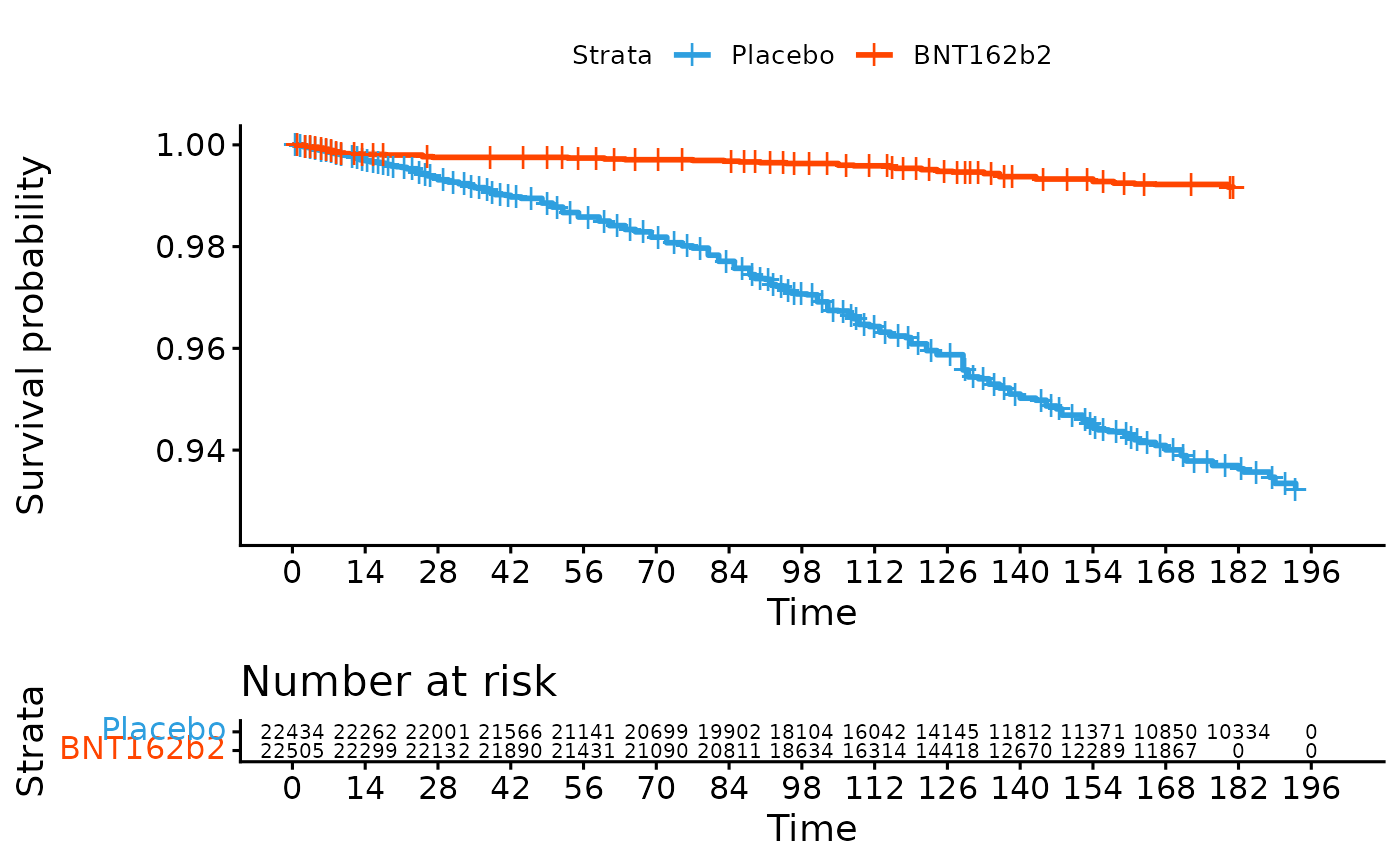
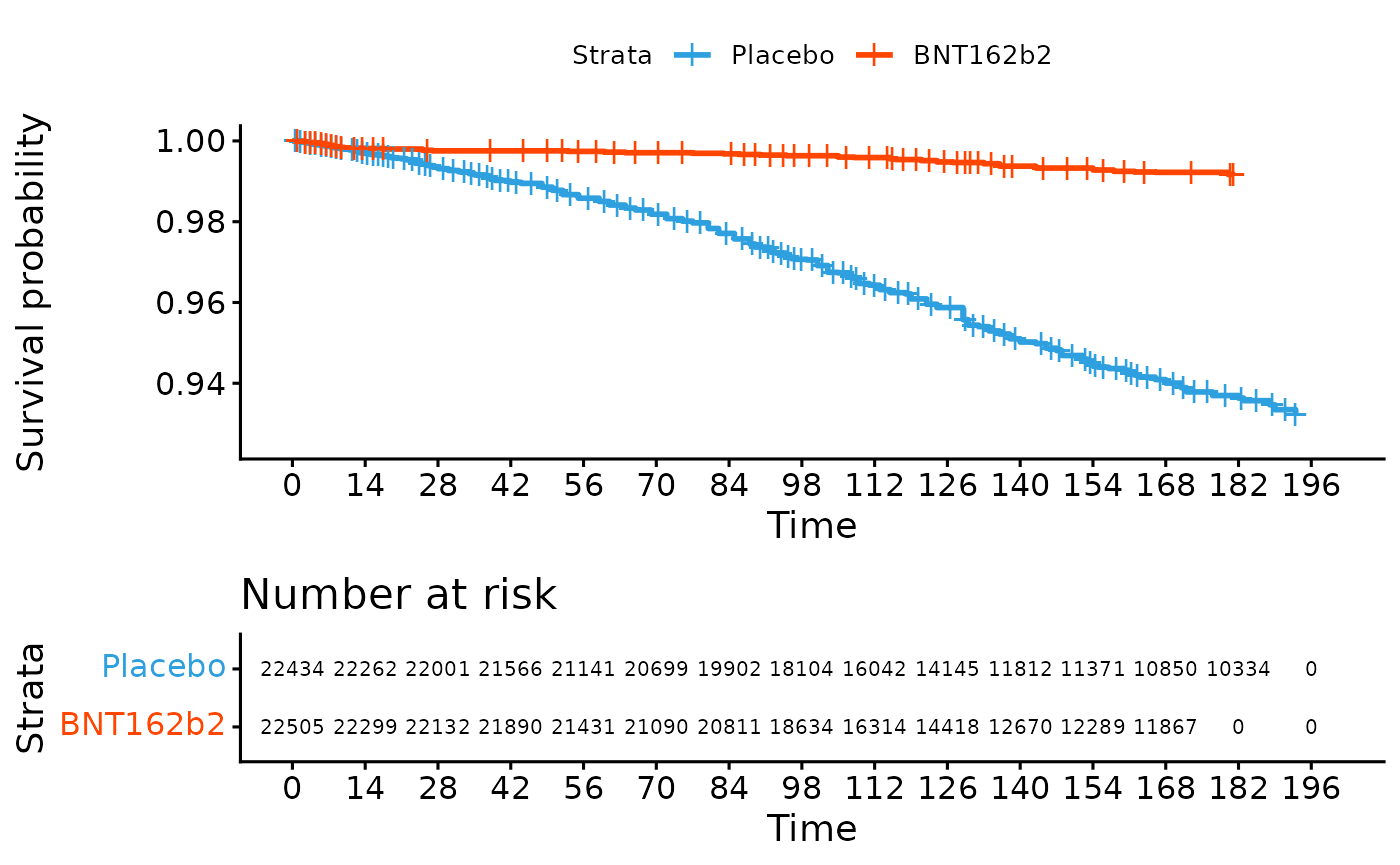
Deploying to gh-pages from @ swihart/mpw@42664717c1d3d849d6ddcf8ddc65f5772cdc1b2b 🚀

diff --git a/articles/wwps-fay-ipd.html b/articles/wwps-fay-ipd.html
@@ -158,7 +158,7 @@ with the core of our example.</p>
 <span><span class="co"># Visualize with survminer</span></span>
 <span><span class="fu"><a href="https://rdrr.io/pkg/survminer/man/ggsurvplot.html" class="external-link">ggsurvplot</a></span><span class="op">(</span><span class="va">fit</span>, data <span class="op">=</span> <span class="va">ipd_data</span>, risk.table <span class="op">=</span> <span class="cn">TRUE</span>, </span>
 <span>           ylim<span class="op">=</span><span class="fu"><a href="https://rdrr.io/r/base/c.html" class="external-link">c</a></span><span class="op">(</span><span class="fl">1</span>,<span class="fl">0.993</span><span class="op">)</span>, xlim<span class="op">=</span><span class="fu"><a href="https://rdrr.io/r/base/c.html" class="external-link">c</a></span><span class="op">(</span><span class="fl">0</span>,<span class="fl">28</span><span class="op">)</span>, break.time.by<span class="op">=</span><span class="fl">11</span>,</span>
-<span>           fontsize<span class="op">=</span><span class="fl">2.7</span>,tables.height <span class="op">=</span> <span class="fl">0.250</span>,</span>
+<span>           fontsize<span class="op">=</span><span class="fl">2.7</span>,tables.height <span class="op">=</span> <span class="fl">0.350</span>,</span>
 <span>           legend.labs <span class="op">=</span> <span class="fu"><a href="https://rdrr.io/r/base/c.html" class="external-link">c</a></span><span class="op">(</span><span class="st">"Placebo"</span>, <span class="st">"BNT162b2"</span><span class="op">)</span>,</span>
 <span>           palette <span class="op">=</span> <span class="fu"><a href="https://rdrr.io/r/base/c.html" class="external-link">c</a></span><span class="op">(</span><span class="st">"#2E9FDF"</span>,<span class="st">"#FF4500"</span> <span class="op">)</span><span class="op">)</span></span></code></pre></div>
 <p><img src="wwps-fay-ipd_files/figure-html/thomas-data-1.png" class="r-plt" width="700"></p>
@@ -168,7 +168,7 @@ with the core of our example.</p>
 <span><span class="co">## full view; every 14 days</span></span>
 <span><span class="fu"><a href="https://rdrr.io/pkg/survminer/man/ggsurvplot.html" class="external-link">ggsurvplot</a></span><span class="op">(</span><span class="va">fit</span>, data <span class="op">=</span> <span class="va">ipd_data</span>, risk.table <span class="op">=</span> <span class="cn">TRUE</span>, </span>
 <span>           ylim<span class="op">=</span><span class="fu"><a href="https://rdrr.io/r/base/c.html" class="external-link">c</a></span><span class="op">(</span><span class="fl">1</span>,<span class="fl">0.925</span><span class="op">)</span>, break.time.by<span class="op">=</span><span class="fl">14</span>,</span>
-<span>           fontsize<span class="op">=</span><span class="fl">2.7</span>, tables.height <span class="op">=</span> <span class="fl">0.250</span>,</span>
+<span>           fontsize<span class="op">=</span><span class="fl">2.7</span>, tables.height <span class="op">=</span> <span class="fl">0.350</span>,</span>
 <span>           legend.labs <span class="op">=</span> <span class="fu"><a href="https://rdrr.io/r/base/c.html" class="external-link">c</a></span><span class="op">(</span><span class="st">"Placebo"</span>, <span class="st">"BNT162b2"</span><span class="op">)</span>,</span>
 <span>           palette <span class="op">=</span> <span class="fu"><a href="https://rdrr.io/r/base/c.html" class="external-link">c</a></span><span class="op">(</span><span class="st">"#2E9FDF"</span>,<span class="st">"#FF4500"</span> <span class="op">)</span><span class="op">)</span></span></code></pre></div>
 <p><img src="wwps-fay-ipd_files/figure-html/thomas-data-2.png" class="r-plt" width="700"></p>

diff --git a/articles/wwps-fay-ipd.md b/articles/wwps-fay-ipd.md
@@ -73,7 +73,7 @@ fit <- survfit(Surv(time, status) ~ treat,
 # Visualize with survminer
 ggsurvplot(fit, data = ipd_data, risk.table = TRUE, 
            ylim=c(1,0.993), xlim=c(0,28), break.time.by=11,
-           fontsize=2.7,tables.height = 0.250,
+           fontsize=2.7,tables.height = 0.350,
            legend.labs = c("Placebo", "BNT162b2"),
            palette = c("#2E9FDF","#FF4500" ))
 ```
@@ -86,7 +86,7 @@ ggsurvplot(fit, data = ipd_data, risk.table = TRUE,
 ## full view; every 14 days
 ggsurvplot(fit, data = ipd_data, risk.table = TRUE, 
            ylim=c(1,0.925), break.time.by=14,
-           fontsize=2.7, tables.height = 0.250,
+           fontsize=2.7, tables.height = 0.350,
            legend.labs = c("Placebo", "BNT162b2"),
            palette = c("#2E9FDF","#FF4500" ))
 ```
